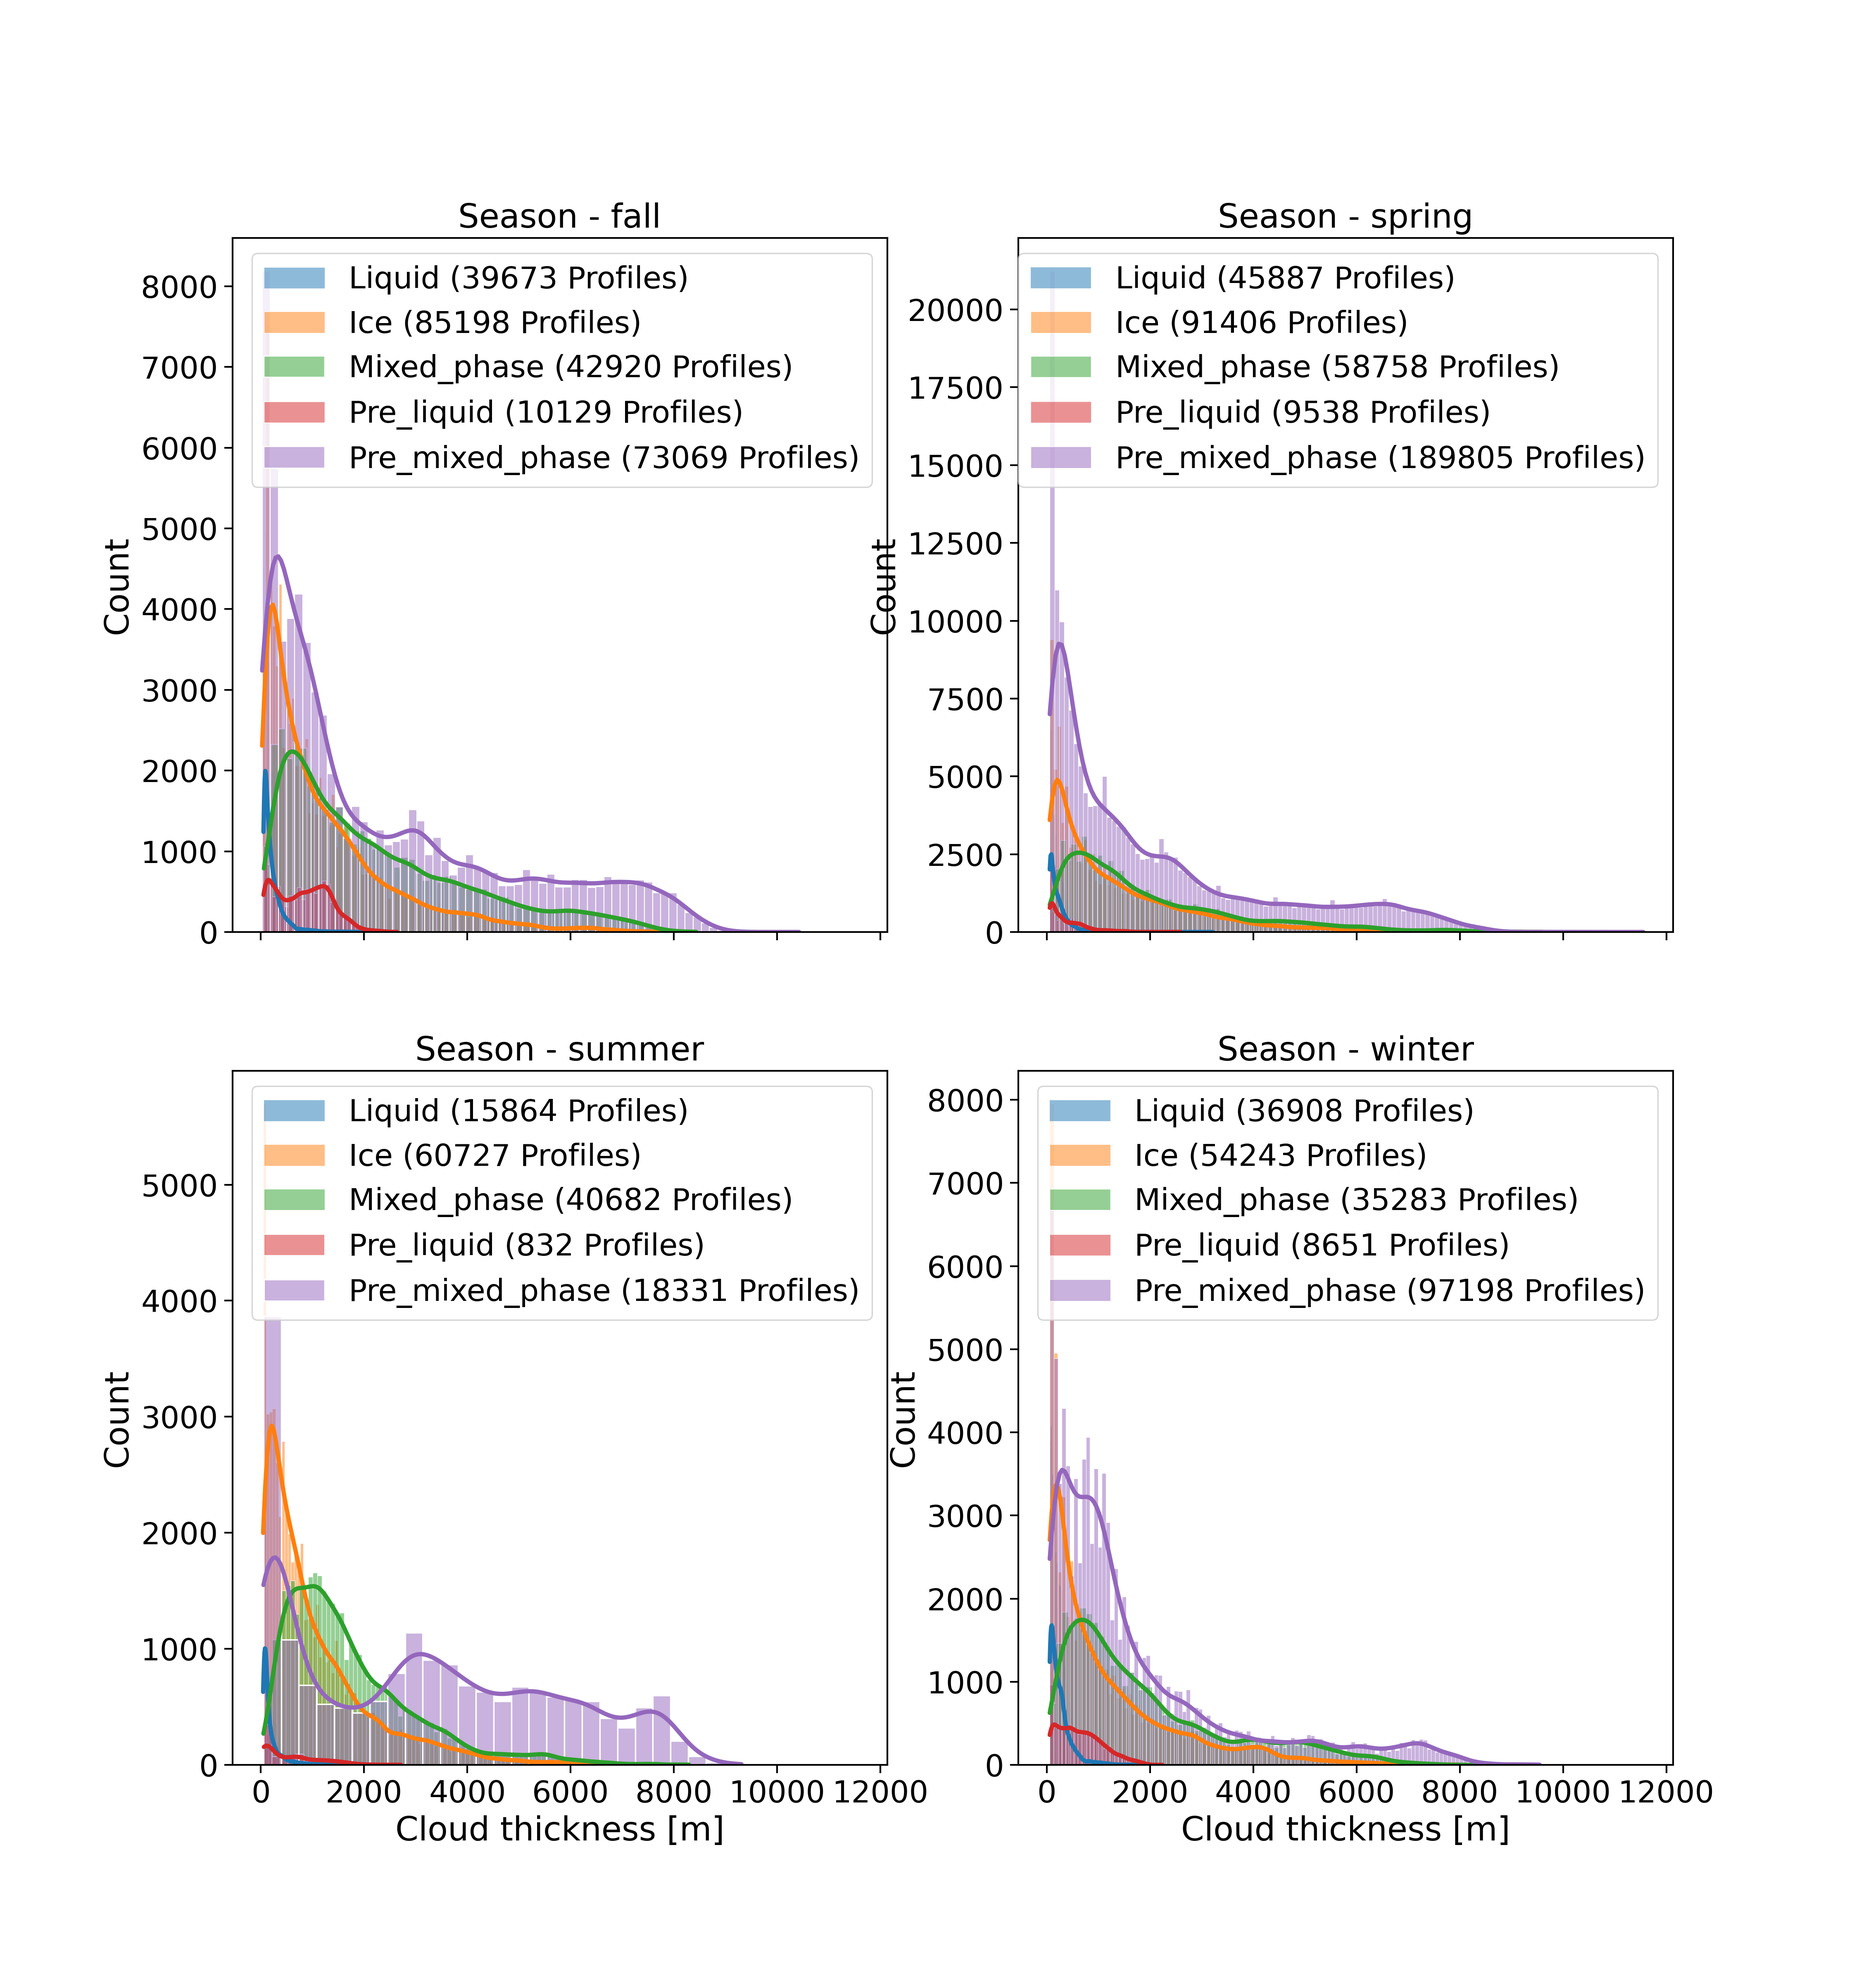
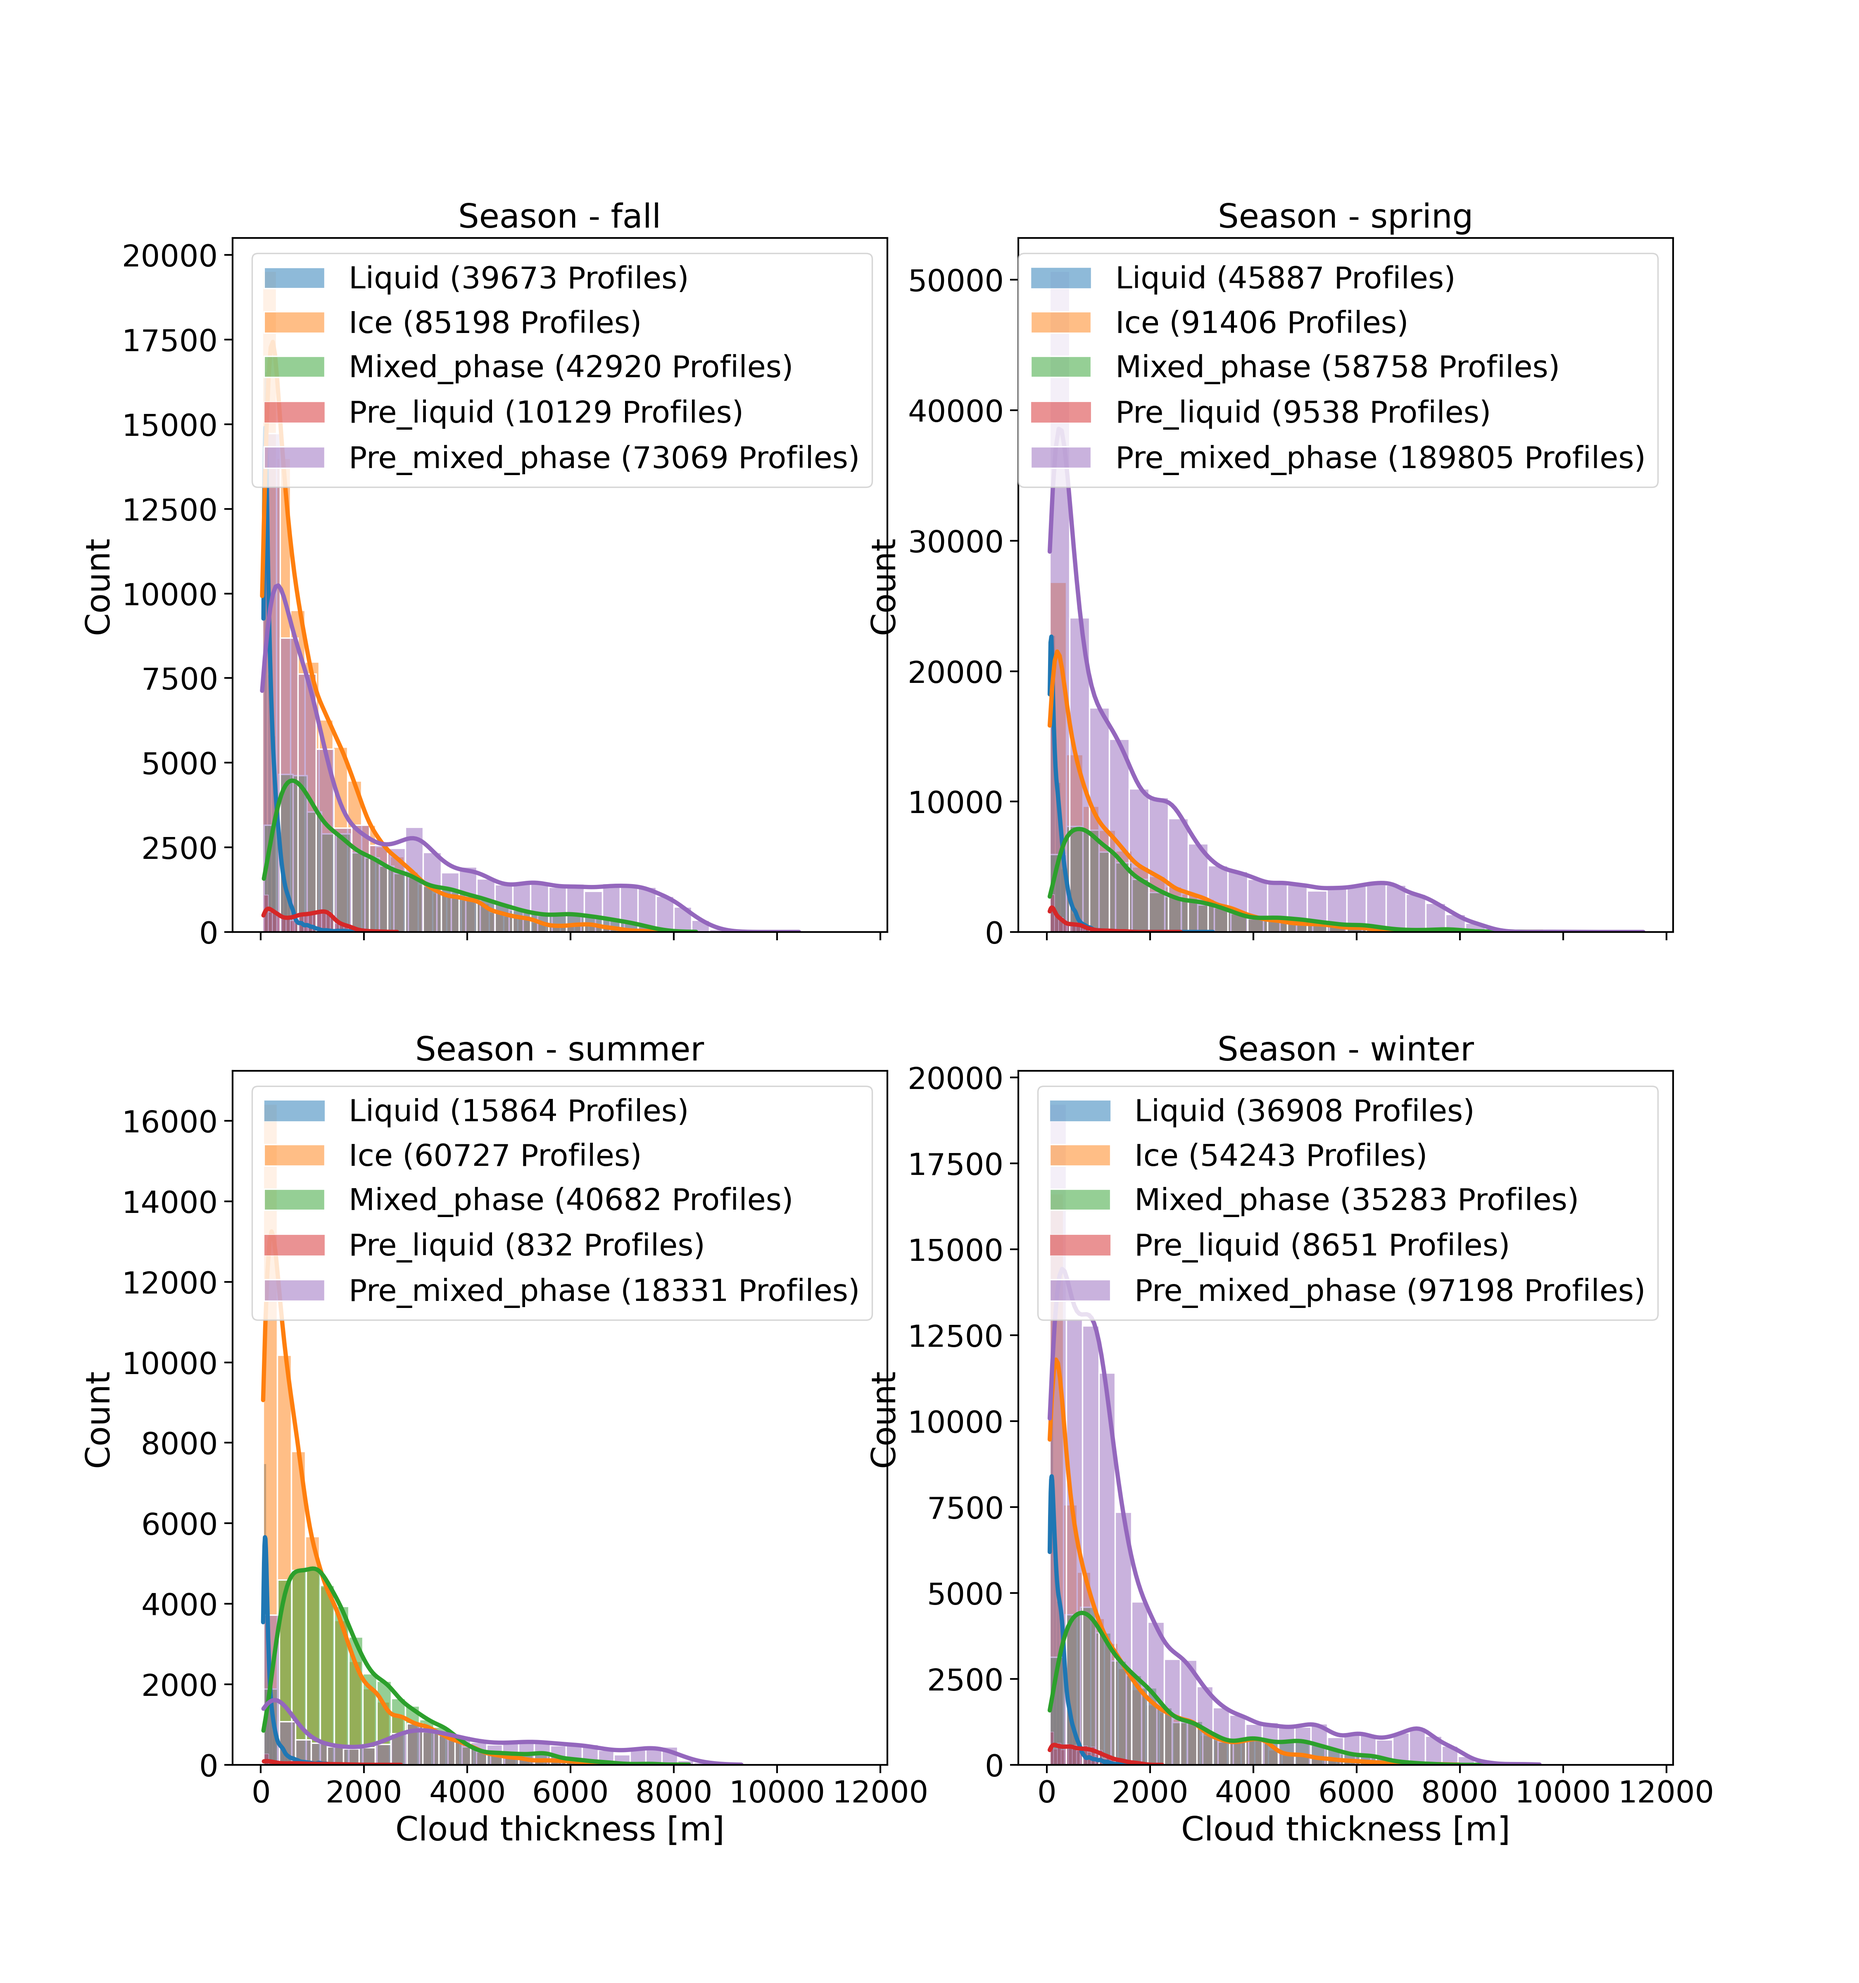
improve statistics for cloud properties

diff --git a/phd_clouds/scripts/cloud_data_analysis_parallel.py b/phd_clouds/scripts/cloud_data_analysis_parallel.py
@@ -26,6 +26,7 @@ import dask.config
 import time as time_module
 from dateutil.relativedelta import relativedelta
 from scipy.interpolate import RectBivariateSpline, RegularGridInterpolator, griddata
+from itertools import chain
 # import seaborn as sns 
 
 # Set the option to split large chunks
@@ -1262,9 +1263,9 @@ month_mask         = nan_count_by_month < .7
 #     create_hydromet_box_plot(freq_pr_reindex,figname=f"{PATH_FIG}hydrometeor_boxplot_plot.png")
 
 # get values comple
-freq_str = "M"
-with sns.axes_style("ticks"):
-    create_data_availability_plot(reindexed_variable, freq_str, figname=f"{PATH_FIG}data_availability.png")
+# freq_str = "M"
+# with sns.axes_style("ticks"):
+#     create_data_availability_plot(reindexed_variable, freq_str, figname=f"{PATH_FIG}data_availability.png")
 
 # # Create a figure and axis
 # fig, ax = plt.subplots(figsize=(10, 6))  # Adjust the figure size as needed
@@ -1467,42 +1468,42 @@ reindexed_clouds_layers['missing'] = reindexed_clouds_layers.multilayer.isnull()
 #                      freq_str, 
 #                      figname=f"{PATH_FIG}cloud_frequency_subplots_by_year.png")
 
-plot_cloud_frequency3(reindexed_clouds_layers,
-                     freq_str, 
-                     figname=f"{PATH_FIG}cloud_freq_plot_by_year")
+# plot_cloud_frequency3(reindexed_clouds_layers,
+#                      freq_str, 
+#                      figname=f"{PATH_FIG}cloud_freq_plot_by_year")
 
-plot_histograms_with_profiles(datasets=[integrated_var_single_layer.LWP.where(clouds_single_layer.Liquid.compute() == 1, drop=True).dropna(dim='time'),
-                                        integrated_var_single_layer.LWP.where(clouds_single_layer.Mixed_phase.compute() == 1, drop=True).dropna(dim='time')],
-                             bin_width=.025,
-                             labels=["Liquid", "Mixed-phase"],
-                             x_label= r"LWP ($\Delta$LWP = .025 [kg m$^{-2}$])",
-                             y_label="Frequency [%]",
-                             xticks_resolution=.050,
-                             xlim=[0, .5],
-                             ylim=(0.1, 100),
-                             figname=f"{PATH_FIG}lwp_histograms.png")
+# plot_histograms_with_profiles(datasets=[integrated_var_single_layer.LWP.where(clouds_single_layer.Liquid.compute() == 1, drop=True).dropna(dim='time'),
+#                                         integrated_var_single_layer.LWP.where(clouds_single_layer.Mixed_phase.compute() == 1, drop=True).dropna(dim='time')],
+#                              bin_width=.025,
+#                              labels=["Liquid", "Mixed-phase"],
+#                              x_label= r"LWP ($\Delta$LWP = .025 [kg m$^{-2}$])",
+#                              y_label="Frequency [%]",
+#                              xticks_resolution=.050,
+#                              xlim=[0, .5],
+#                              ylim=(0.1, 100),
+#                              figname=f"{PATH_FIG}lwp_histograms.png")
 
-plot_histograms_with_profiles(datasets=[integrated_var_single_layer.IWP.where(clouds_single_layer.Ice.compute() == 1, drop=True).dropna(dim='time'),
-                                        integrated_var_single_layer.IWP.where(clouds_single_layer.Mixed_phase.compute() == 1, drop=True).dropna(dim='time')],
-                             bin_width=.025,
-                             labels=["Ice", "Mixed-phase"],
-                             x_label= r"IWP ($\Delta$IWP = .025 kg m$^{-2}$)",
-                             y_label="Frequency [%]",
-                             xticks_resolution=.050,
-                             xlim=[0, 1.],
-                             ylim=(0.1, 100),
-                             figname=f"{PATH_FIG}ice_histograms.png")
+# plot_histograms_with_profiles(datasets=[integrated_var_single_layer.IWP.where(clouds_single_layer.Ice.compute() == 1, drop=True).dropna(dim='time'),
+#                                         integrated_var_single_layer.IWP.where(clouds_single_layer.Mixed_phase.compute() == 1, drop=True).dropna(dim='time')],
+#                              bin_width=.025,
+#                              labels=["Ice", "Mixed-phase"],
+#                              x_label= r"IWP ($\Delta$IWP = .025 kg m$^{-2}$)",
+#                              y_label="Frequency [%]",
+#                              xticks_resolution=.050,
+#                              xlim=[0, 1.],
+#                              ylim=(0.1, 100),
+#                              figname=f"{PATH_FIG}ice_histograms.png")
 
-plot_histograms_with_profiles(datasets=[cloud_thickness.Liquid.where(clouds_single_layer.Liquid.compute() == 1, drop=True).dropna(dim='time'),
-                                        cloud_thickness.Ice.where(clouds_single_layer.Ice.compute() == 1, drop=True).dropna(dim='time'),
-                                        cloud_thickness.Mixed_phase.where(clouds_single_layer.Mixed_phase.compute() == 1, drop=True).dropna(dim='time')],
-                             bin_width=200,
-                             labels=["Liquid", "Ice", "Mixed-phase"],
-                             x_label= r"Cloud Thickness ($\Delta$Z = 200 m)",
-                             y_label="Frequency [%]",
-                             xticks_resolution=500,
-                             ylim=(0.1, 100),
-                             figname=f"{PATH_FIG}cloud_thickness_histograms.png")
+# plot_histograms_with_profiles(datasets=[cloud_thickness.Liquid.where(clouds_single_layer.Liquid.compute() == 1, drop=True).dropna(dim='time'),
+#                                         cloud_thickness.Ice.where(clouds_single_layer.Ice.compute() == 1, drop=True).dropna(dim='time'),
+#                                         cloud_thickness.Mixed_phase.where(clouds_single_layer.Mixed_phase.compute() == 1, drop=True).dropna(dim='time')],
+#                              bin_width=200,
+#                              labels=["Liquid", "Ice", "Mixed-phase"],
+#                              x_label= r"Cloud Thickness ($\Delta$Z = 200 m)",
+#                              y_label="Frequency [%]",
+#                              xticks_resolution=500,
+#                              ylim=(0.1, 100),
+#                              figname=f"{PATH_FIG}cloud_thickness_histograms.png")
 
 # -----------------------------------------------------------------------------------------------
 # Cloud Geometric Properties Analysis
@@ -1642,15 +1643,20 @@ def plot_seasonal_histograms(ds, xname, save_path=None):
                 if var_name == 'Liquid' and season == 'summer':
                     data[var_name].append(np.nan)
                 else:
-                    data[var_name].append(median_value)
+                    data[var_name].append(values)
                 print(f"Season: {season}, Variable: {var_name}, Meadian: {median_value}") 
                 # print(f"Season: {season}, Variable: {var_name}, Meadian: {np.nanmedian(values)}, 25th Percentile: {np.nanpercentile(values, 25)}, 75th Percentile: {np.nanpercentile(values, 75)}")
         ax.set_title(f"Season - {season}")
         ax.set_xlabel(xname)
         ax.legend()
     
-    for var_name, values in data.items():
-        print(f"Variable: {var_name}, Mean: {np.nanmean(values)/1000}, Std: {np.nanstd(values)/1000}")
+    for var_name, nested_list in data.items():
+        if len(nested_list) > 0:
+            # Flatten the list of values
+            flattened_list = list(chain.from_iterable(sublist if isinstance(sublist, np.ndarray) else [sublist] for sublist in nested_list if not (isinstance(sublist, float) and np.isnan(sublist))))
+            print(f"Variable: {var_name}, Mean: {np.nanmean(flattened_list)/1000}, Std: {np.nanstd(flattened_list)/1000}, Median: {np.nanmedian(flattened_list)/1000}")
+            # print(f"Variable: {var_name}, Mean: {np.nanmean(values)/1000}, Std: {np.nanstd(values)/1000}, Median: {np.nanmedian(values)/1000}")
+    
     
     # Remove any empty subplots
     if num_seasons < num_rows * num_cols:
@@ -1663,7 +1669,6 @@ def plot_seasonal_histograms(ds, xname, save_path=None):
     plt.tight_layout()
     plt.show()
     
-
 # cloud_base_by_season         = cloud_base_indexed_byseason.sel(time=mask_single) # Select only single layer clouds
 # cloud_top_by_season          = cloud_top_indexed_byseason.sel(time=mask_single) # Select only single layer clouds
 # cloud_thickness_by_season    = cloud_thickness_indexed_byseason.sel(time=mask_single) # Select only single layer clouds
@@ -1674,7 +1679,7 @@ plot_seasonal_histograms(cloud_base_indexed_byseason.sel(time=mask_single),
 plot_seasonal_histograms(cloud_top_indexed_byseason.sel(time=mask_single),
                          "Cloud top height [m]" , 
                          save_path=f"{PATH_FIG}cloud_top_height_histograms.png")
-plot_seasonal_histograms(cloud_thickness_indexed_byseason.sel(time=mask_single), 
+plot_seasonal_histograms(cloud_thickness_indexed_byseason.sel(time=mask_single),
                          "Cloud thickness [m]", 
                          save_path=f"{PATH_FIG}cloud_thickness_histograms.png")
 # # -----------------------------------------------------------------------------------------------
@@ -1751,15 +1756,15 @@ cloud_base_by_season         = cloud_base_indexed_byseason.sel(time=mask_single)
 cloud_top_by_season          = cloud_top_indexed_byseason.sel(time=mask_single) # Select only single layer clouds
 cloud_thickness_by_season    = cloud_thickness_indexed_byseason.sel(time=mask_single) # Select only single layer clouds
 
-plot_cloud_prop_along_time(cloud_base_by_season, 
-                           clouds_single_layer, 
-                           integrated_var_single_layer, r"CB Height a.g.l", save_path=f"{PATH_FIG}cloud_base_height")
-plot_cloud_prop_along_time(cloud_top_by_season, 
-                           clouds_single_layer, 
-                           integrated_var_single_layer, r"CT Height a.g.l", save_path=f"{PATH_FIG}cloud_top_height")
-plot_cloud_prop_along_time(cloud_thickness_by_season, 
-                           clouds_single_layer, 
-                           integrated_var_single_layer, r"$\Delta$Z", save_path=f"{PATH_FIG}cloud_thickness")
+# plot_cloud_prop_along_time(cloud_base_by_season, 
+#                            clouds_single_layer, 
+#                            integrated_var_single_layer, r"CB Height a.g.l", save_path=f"{PATH_FIG}cloud_base_height")
+# plot_cloud_prop_along_time(cloud_top_by_season, 
+#                            clouds_single_layer, 
+#                            integrated_var_single_layer, r"CT Height a.g.l", save_path=f"{PATH_FIG}cloud_top_height")
+# plot_cloud_prop_along_time(cloud_thickness_by_season, 
+#                            clouds_single_layer, 
+#                            integrated_var_single_layer, r"$\Delta$Z", save_path=f"{PATH_FIG}cloud_thickness")
 
 # -----------------------------------------------------------------------------------------------
 
